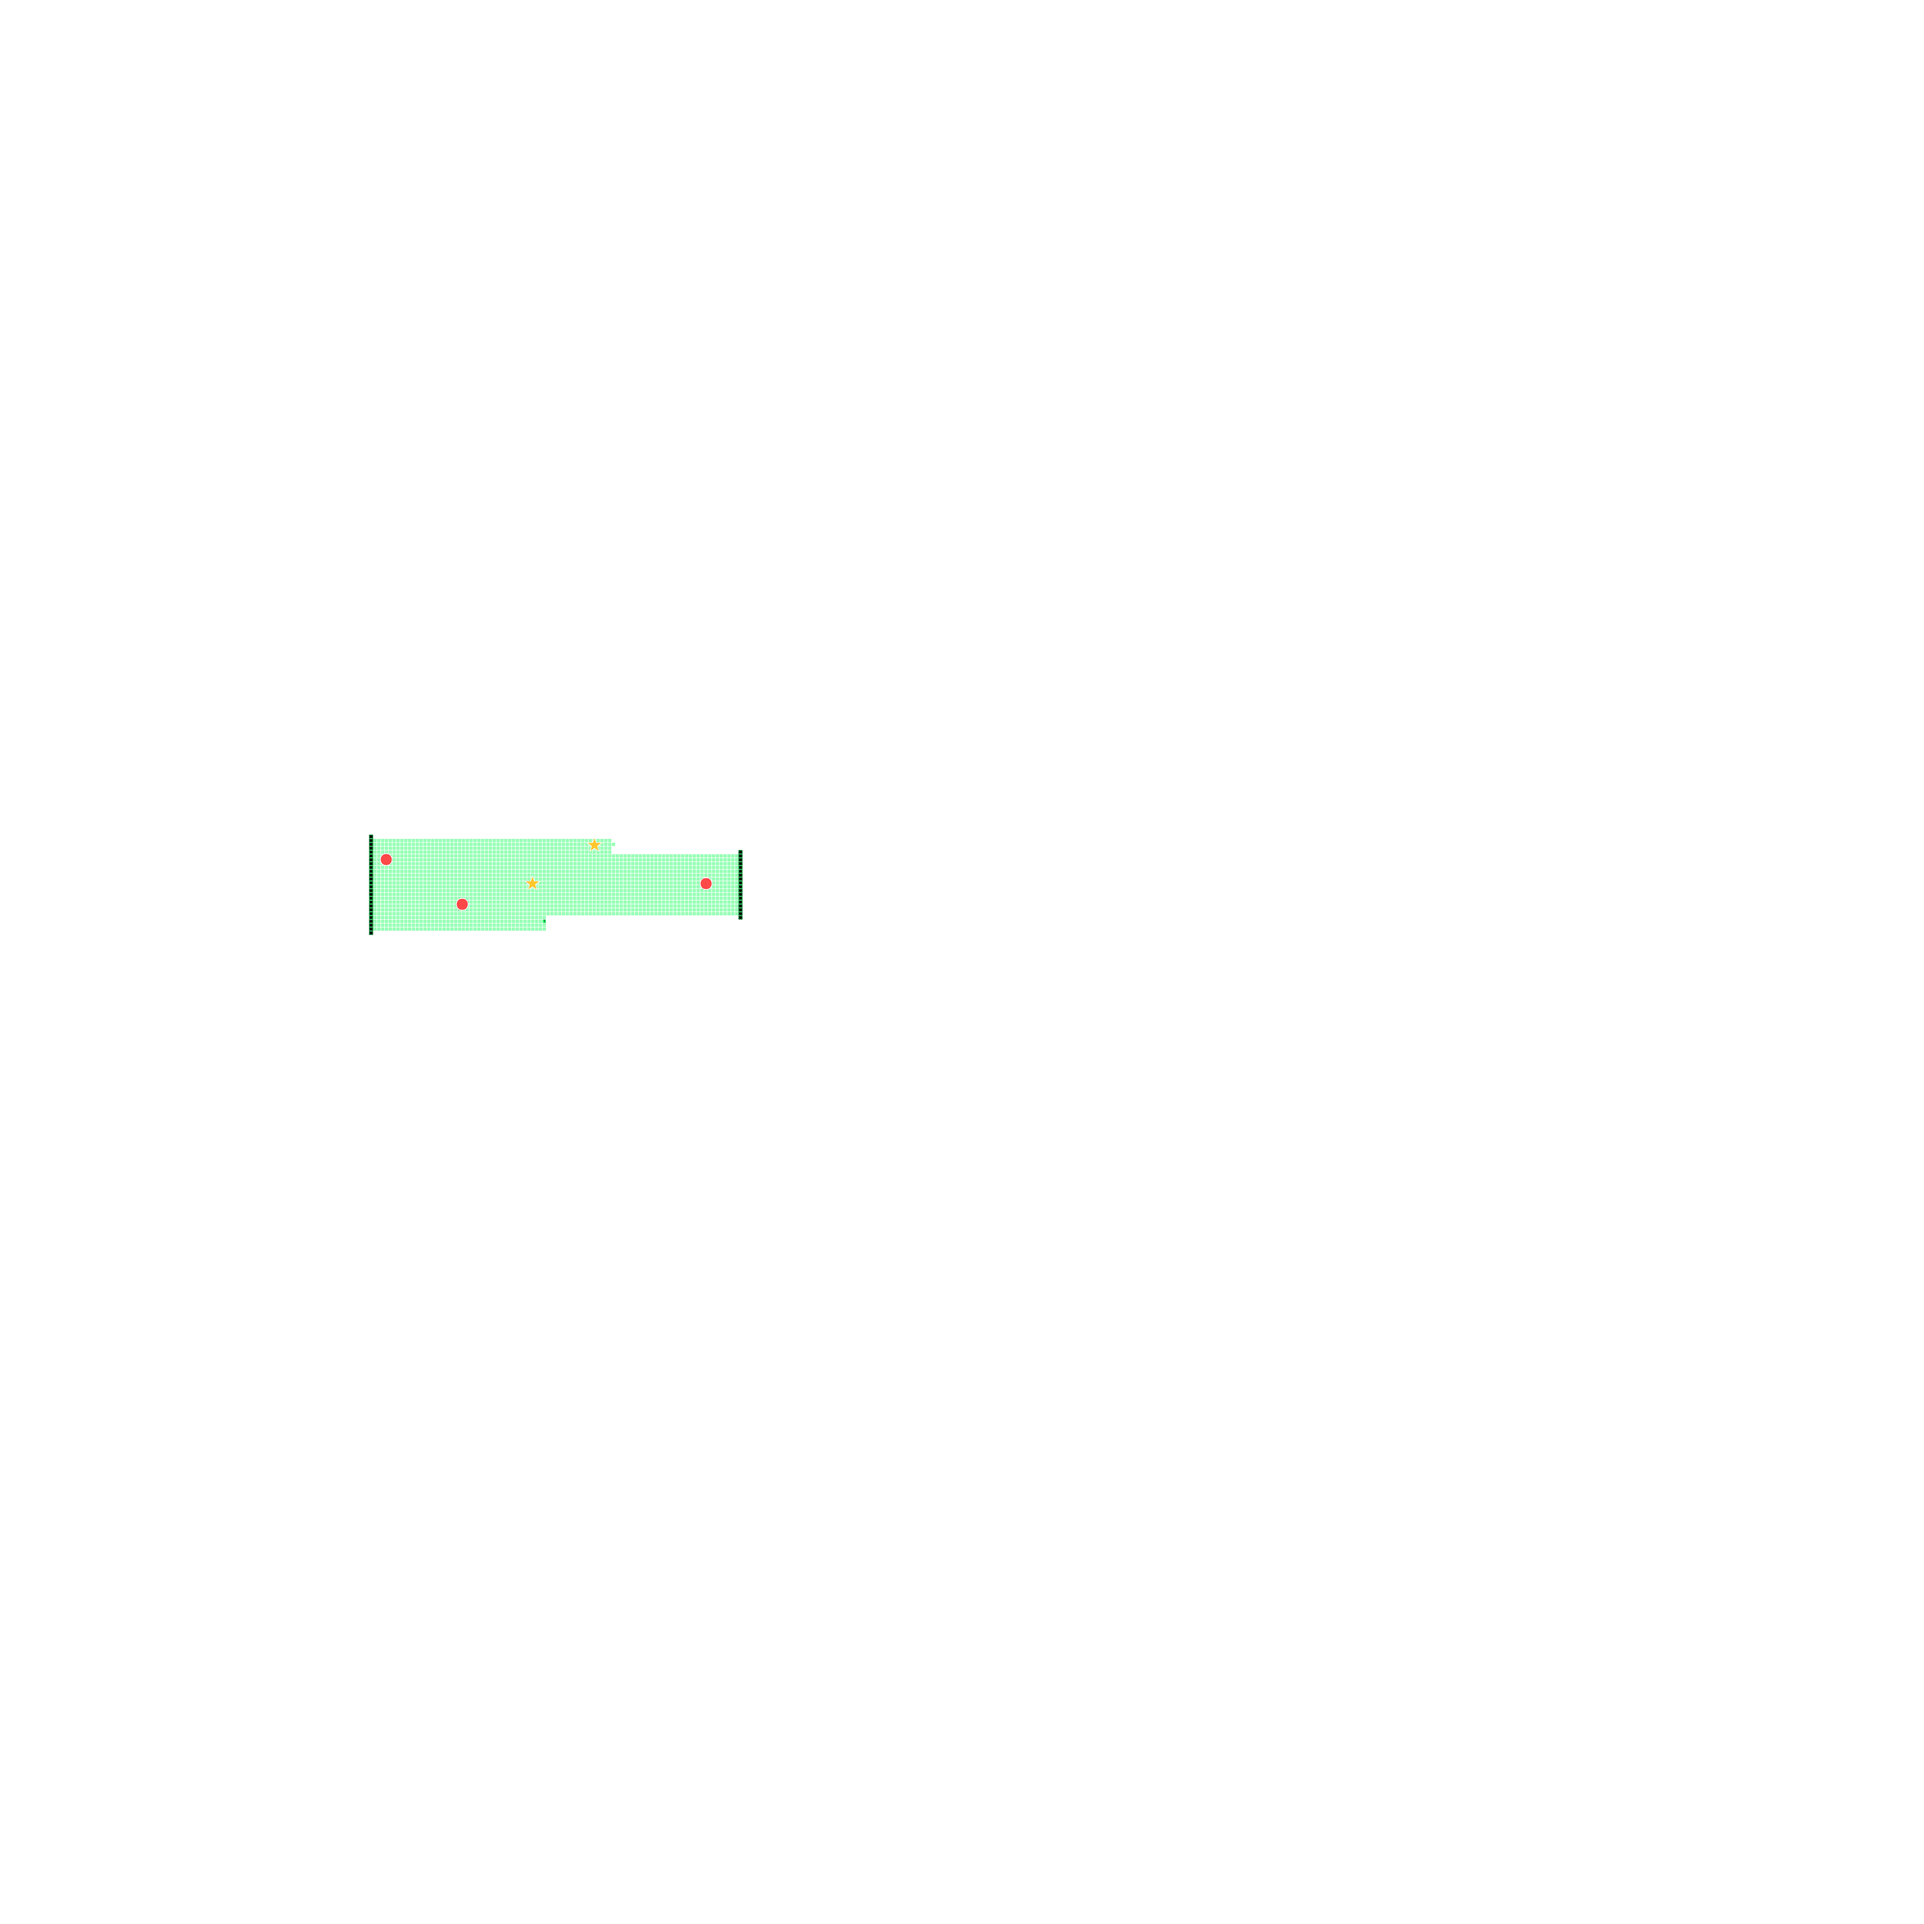
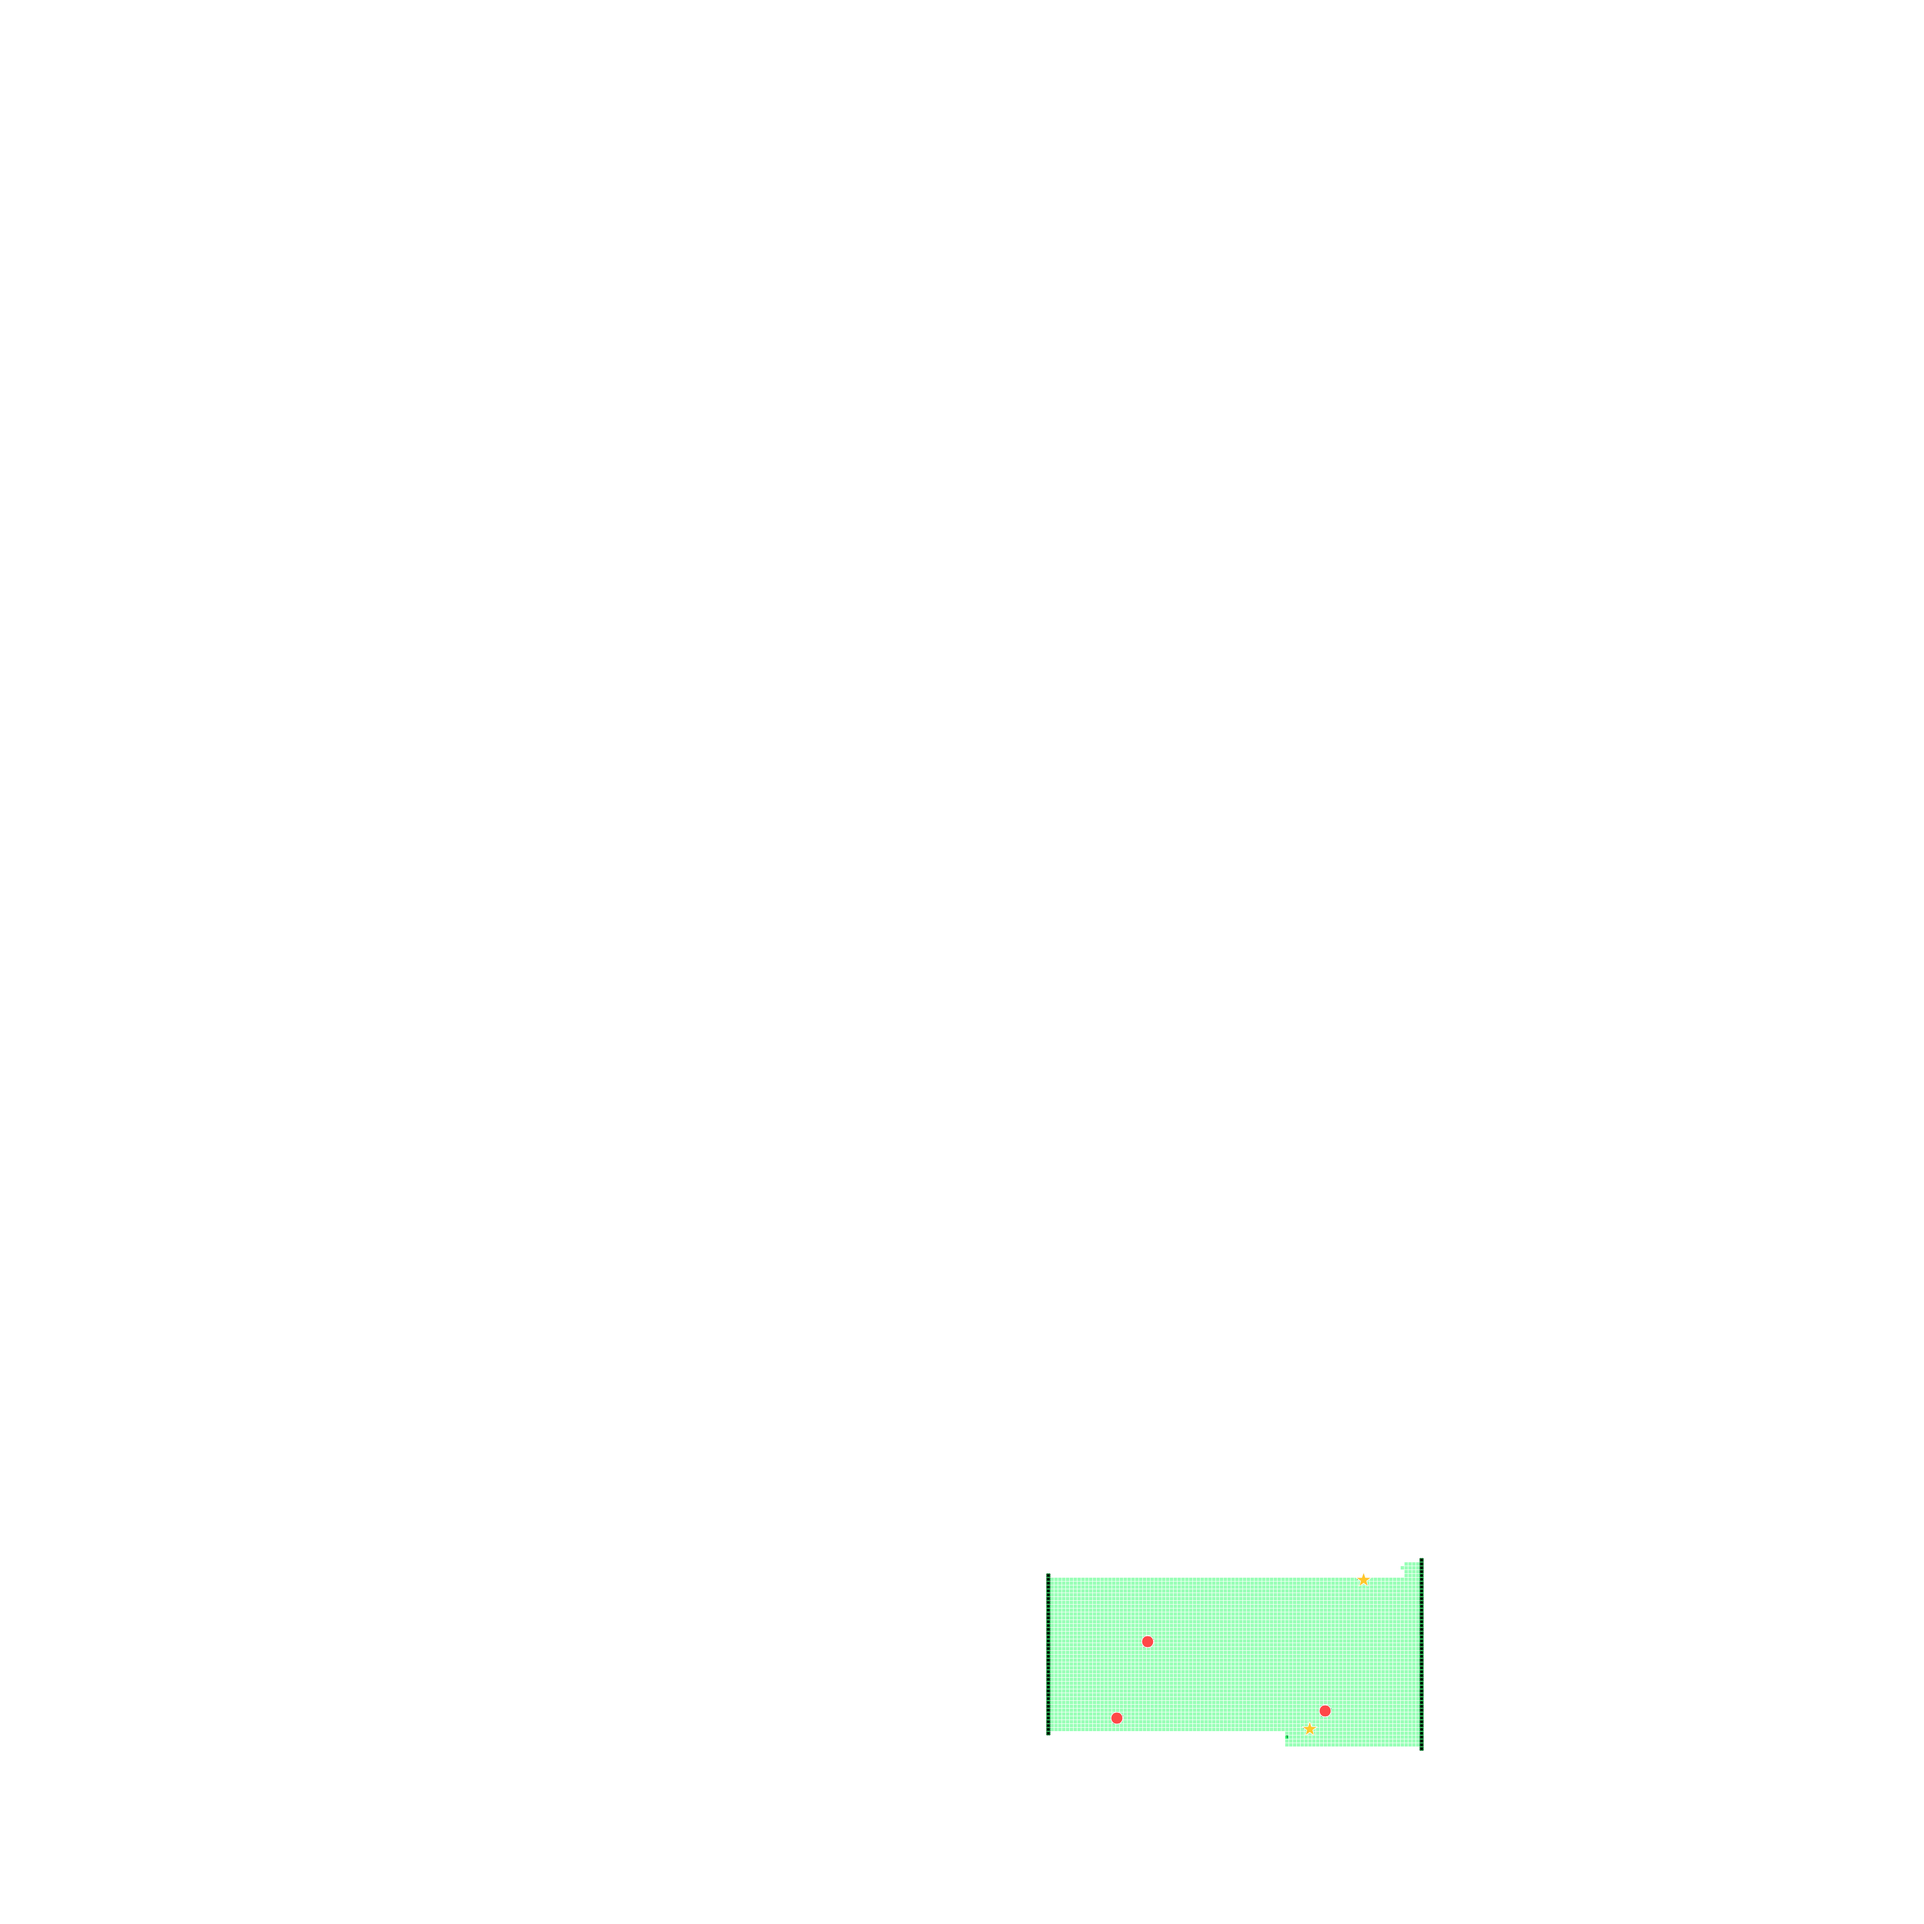
human exploration image changes, picked targets locations
- human exploration image only shows the area explored in the last interval
- picked targets are stored as an array of targets instead of the total number count

Changed region(s): [[0.5312, 0.8125, 0.75, 0.9062], [0.1875, 0.4375, 0.4062, 0.5]]

diff --git a/public/js/new_simulation.js b/public/js/new_simulation.js
@@ -69,16 +69,16 @@ var obstacleLocs = [
 ];
 
 var fakeBotImageScales = [
-	{ left:  96, right: 192, top: 158, bottom: 182 },
-	{ left:  96, right: 192, top: 177, bottom: 202 },
-	{ left:  96, right: 192, top: 197, bottom: 222 },
-	{ left:  96, right: 192, top: 217, bottom: 242 },
-	{ left:  96, right: 275, top: 201, bottom: 257 },
-	{ left: 270, right: 319, top: 201, bottom: 348 },
-	{ left: 166, right: 267, top: 304, bottom: 329 },
-	{ left:  96, right: 192, top: 158, bottom: 182 },
-	{ left:  96, right: 192, top: 177, bottom: 202 },
-	{ left:  96, right: 192, top: 197, bottom: 222 }
+	{ left:  96, right: 192, top: 158, bottom: 202 },
+	{ left:  96, right: 192, top: 197, bottom: 242 },
+	{ left: 166, right: 369, top: 198, bottom: 410 },
+	{ left: 272, right: 369, top: 405, bottom: 454 },
+	{ left: 272, right: 369, top: 213, bottom: 483 },
+	{ left: 281, right: 381, top:  49, bottom: 214 },
+	{ left: 281, right: 381, top:  84, bottom: 128 },
+	{ left: 281, right: 431, top:  92, bottom: 286 },
+	{ left: 335, right: 431, top: 281, bottom: 330 },
+	{ left: 335, right: 431, top: 325, bottom: 370 }
 ];
 
 var fakeAgentScores = [
@@ -127,8 +127,8 @@ class Player {
 		this.fovSize = fovSize;
 		this.explored = new Set();
 		this.tempExplored = new Set();
-		this.tempTargetsFound = { positive: 0, negative: 0 };
-		this.totalTargetsFound = { positive: 0, negative: 0 };
+		this.tempTargetsFound = { positive: [], negative: [] };
+		this.totalTargetsFound = { positive: [], negative: [] };
 	}
 
 	spawn(size) {
@@ -223,8 +223,8 @@ class Player {
 		} */
 		if (!pickedObstacle[0].isPicked) {
 			pickedObstacle[0].isPicked = true;
-			if (pickedObstacle[0].variant == 'positive') ++this.tempTargetsFound.positive;
-			else if (pickedObstacle[0].variant == 'negative') ++this.tempTargetsFound.negative;
+			if (pickedObstacle[0].variant == 'positive') this.tempTargetsFound.positive.push(pickedObstacle[0]);
+			else if (pickedObstacle[0].variant == 'negative') this.tempTargetsFound.negative.push(pickedObstacle[0]);
 		}
 	}
 }
@@ -541,6 +541,9 @@ function showTrustPrompt() {
 	initialTimeStamp = performance.now();
 
 	if (agentNum == 1) {
+		$map.clearCanvas();
+		human.drawCells(human.tempExplored, false);
+		spawn([...human.tempTargetsFound.positive, ...human.tempTargetsFound.negative, human], 1);
 		$humanImage.attr("src", $map.getCanvasImage());
 		$botImage.attr("src", `img/fakeAgentImages/agentExploration${intervalCount + 1}.png`);
 		$minimapImage.attr("src", $map.getCanvasImage());
@@ -563,7 +566,7 @@ function showPostIntegratePrompt(){
 }
 
 function showExploredInfo() {
-	currHumanScore = human.tempTargetsFound.positive * 100 - human.tempTargetsFound.negative * 100;
+	currHumanScore = human.tempTargetsFound.positive.length * 100 - human.tempTargetsFound.negative.length * 100;
 	// currAgentScore = fakeAgentScores[fakeAgentNum].score;
 	let tempCurrAgentScore = fakeAgentScores[fakeAgentNum].score;
 	totalHumanScore += currHumanScore;
@@ -632,13 +635,13 @@ function showExploredInfo() {
 //Update the display for star count for targets on the results display
 function updateResults(){
 	let tempString = ' ';
-	for (let i = 0; i < human.tempTargetsFound.positive; i++){
+	for (let i = 0; i < human.tempTargetsFound.positive.length; i++){
 		tempString+= `<span class="material-icons" style="color: #ffc72c; font-size: 35px;";>star_rate</span>`;
 	}
 	$("div.hBlueStar").html(tempString);
 
 	tempString = ' ';
-	for (let j = 0; j < human.tempTargetsFound.negative; j++){
+	for (let j = 0; j < human.tempTargetsFound.negative.length; j++){
 		tempString+= `<span class="material-icons" style="color: #ff4848; font-size: 30px;";>circle</span>`;
 	}
 	$("div.hYellowStar").html(tempString);
@@ -727,8 +730,8 @@ function updateResults(){
 function confirmExploration() {
 	finalTimeStamp = performance.now();
 	++intervalCount;
-	human.totalTargetsFound.positive += human.tempTargetsFound.positive;
-	human.totalTargetsFound.negative += human.tempTargetsFound.negative;
+	human.totalTargetsFound.positive.push(...human.tempTargetsFound.positive);
+	human.totalTargetsFound.negative.push(...human.tempTargetsFound.negative);
 	currAgentScore = fakeAgentScores[fakeAgentNum].score;
 	log[agentNum - 1].push({ interval: intervalCount, trusted: true, timeTaken: finalTimeStamp - initialTimeStamp });
 	initialTimeStamp = 0, finalTimeStamp = 0;
@@ -743,8 +746,8 @@ function confirmExploration() {
 function undoExploration() {
 	finalTimeStamp = performance.now();
 	++intervalCount;
-	human.totalTargetsFound.positive += human.tempTargetsFound.positive;
-	human.totalTargetsFound.negative += human.tempTargetsFound.negative;
+	human.totalTargetsFound.positive.push(...human.tempTargetsFound.positive);
+	human.totalTargetsFound.negative.push(...human.tempTargetsFound.negative);
 	currAgentScore = 0;
 	log[agentNum - 1].push({ interval: intervalCount, trusted: false, timeTaken: finalTimeStamp - initialTimeStamp });
 	initialTimeStamp = 0, finalTimeStamp = 0;
@@ -773,8 +776,8 @@ function hideExploredInfo() {
 
 	// agents[agentNum - 1].tempTargetsFound.positive = 0;
 	// agents[agentNum - 1].tempTargetsFound.negative = 0;
-	human.tempTargetsFound.positive = 0;
-	human.tempTargetsFound.negative = 0;
+	human.tempTargetsFound.positive = [];
+	human.tempTargetsFound.negative = [];
 
 	log[agentNum - 1][log[agentNum - 1].length - 1].surveyResponse = $('#intervalSurvey').serializeArray();
 

diff --git a/public/css/simulation.css b/public/css/simulation.css
@@ -240,8 +240,8 @@ nav {
 	align-items: center;
 }
 
-#intervalSurvey .questionContainer {
-	margin: 10px 0;
+.questionContainer {
+	padding: 1em 0;
 	width: 100%;
 }
 
